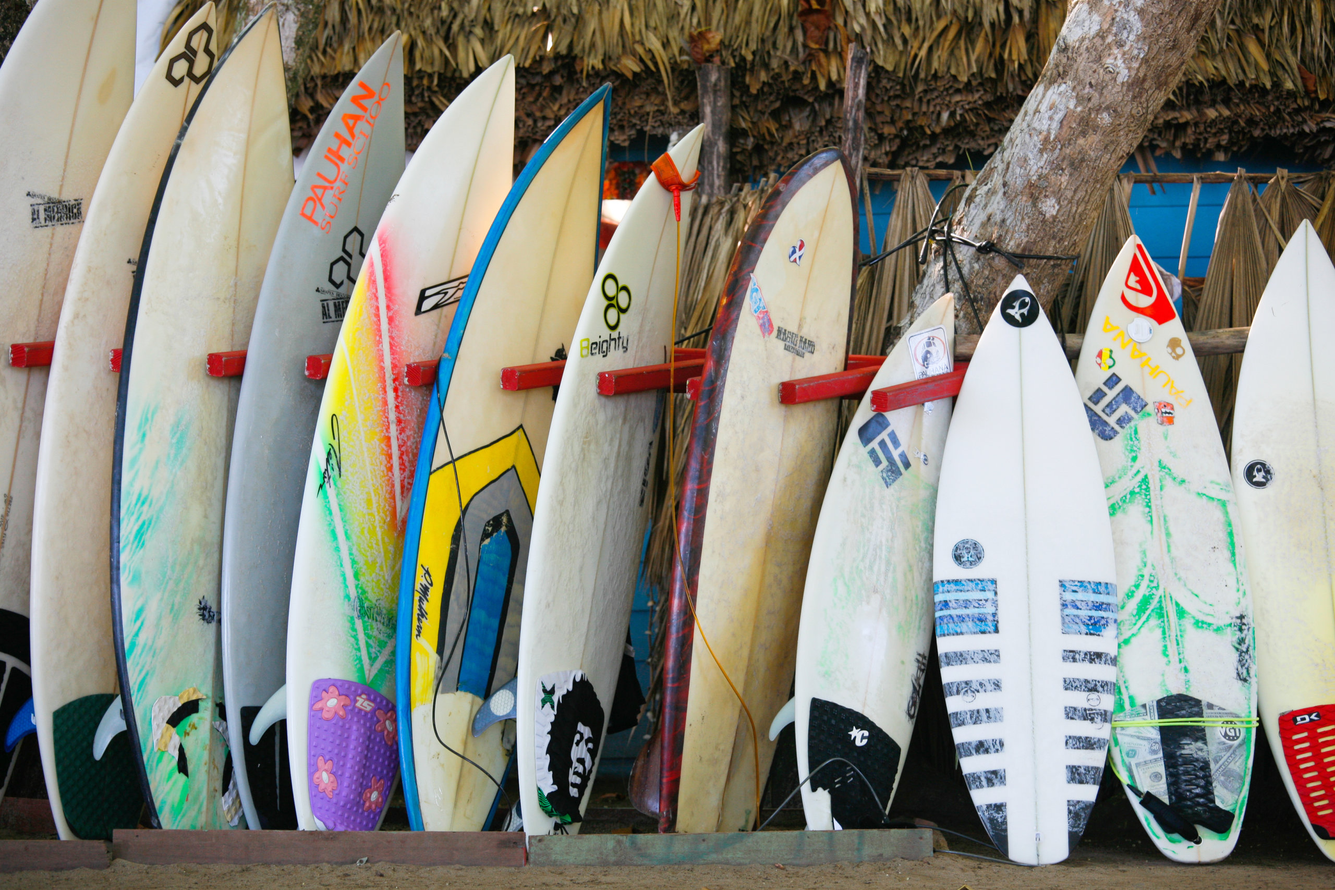
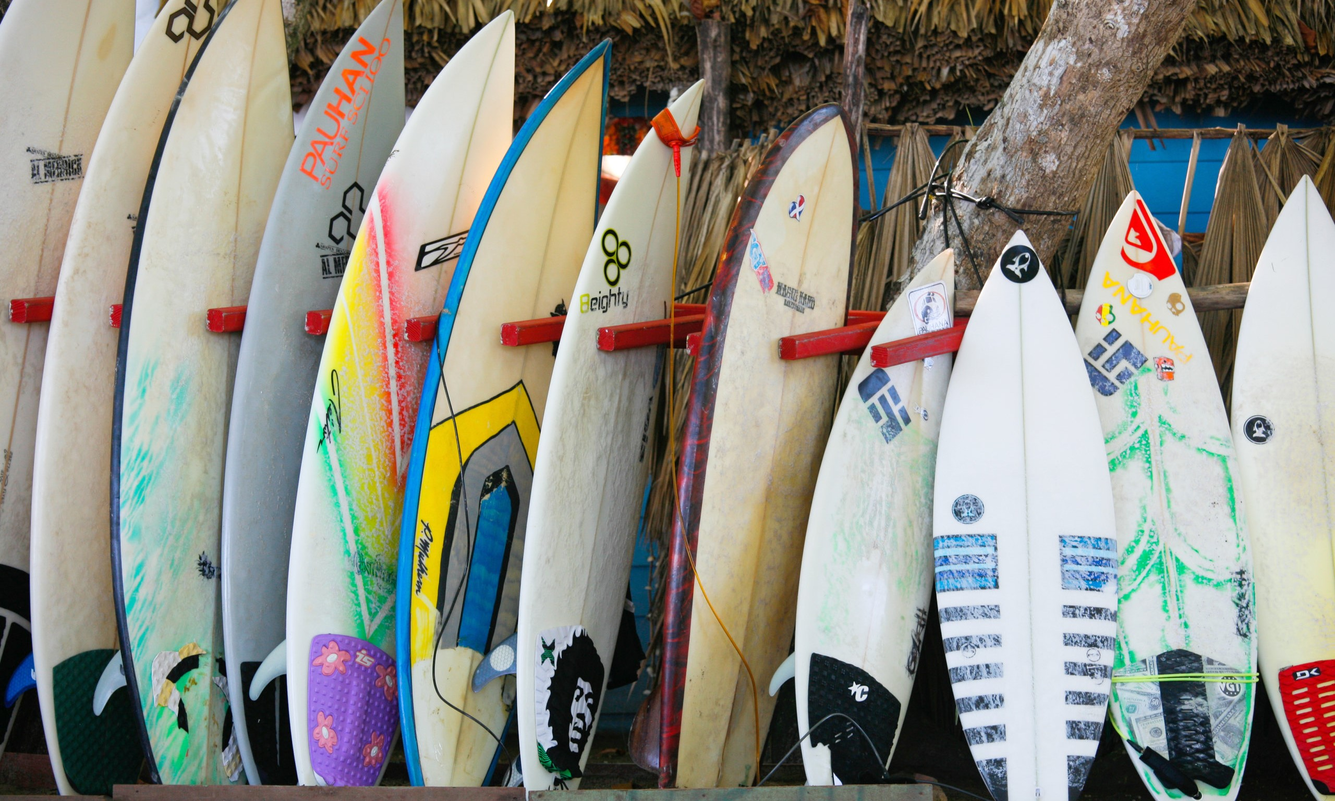
Categories

diff --git a/src/App.css b/src/App.css
@@ -143,11 +143,14 @@ html, body {
   display: flex;
   flex-direction: row;
   justify-content: space-around;
+  margin-top: 3%;
+  margin-bottom: 8%;
 }
 
 .catObject {
   display: flex;
   flex-direction: column;
+  text-align: center;
 }
 
 .catTitle {
@@ -155,7 +158,15 @@ html, body {
 }
 
 .catImg {
-  max-width: 200px;
-  max-height: 200px;
+  max-width: 400px;
+  max-height: 400px;
+  cursor: pointer;
+  transition: 0.4s;
+}
+
+.catImg:hover {
+  transform: translate(0px, -4px);
+  transition: 0.4s;
+  box-shadow: 10px 5px 5px rgba(0, 0, 0, 0.34);
 }
 /* HomeScreen Categories */
